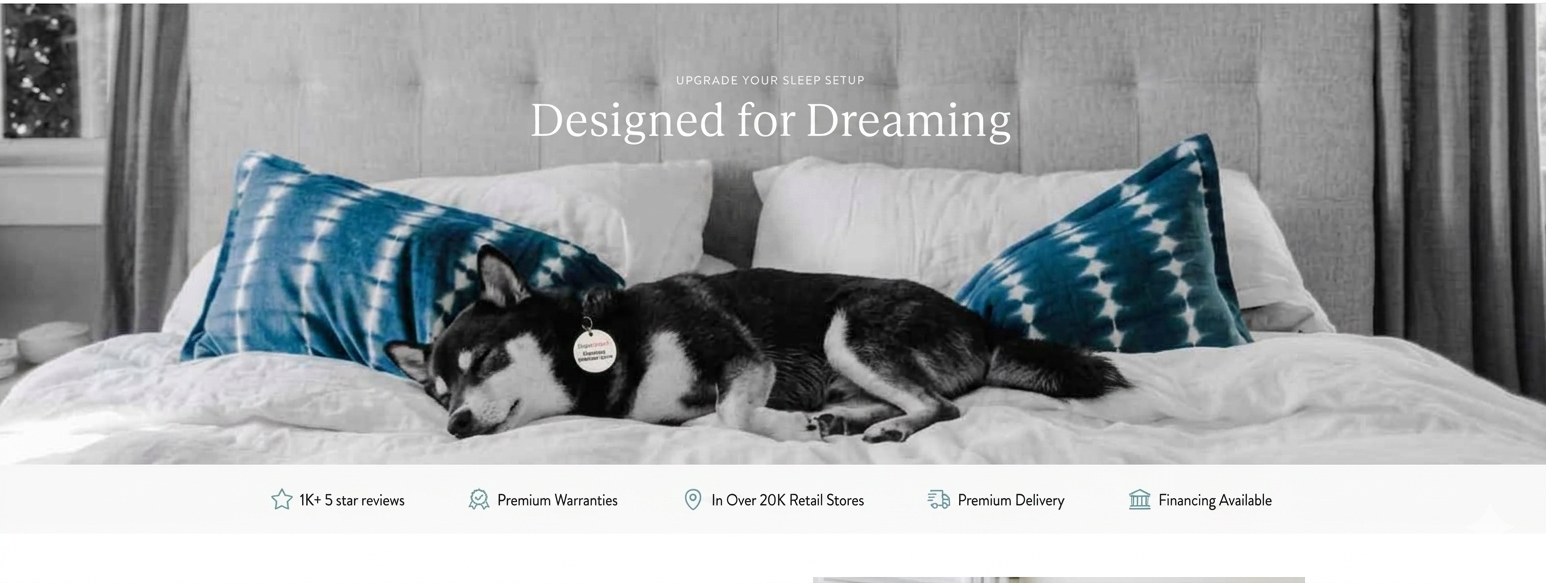
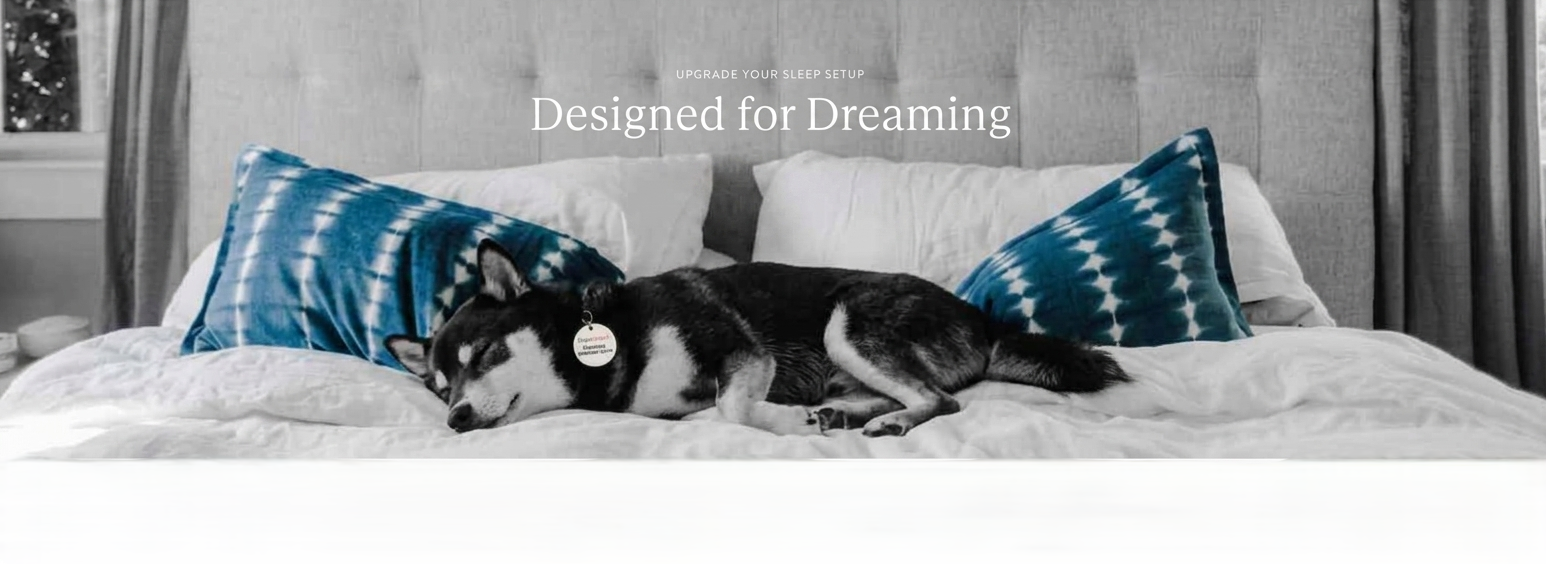
Sync pnpm-lock.yaml with package.json

diff --git a/client/pages/Index.tsx b/client/pages/Index.tsx
@@ -13,7 +13,7 @@ export default function Index() {
         <section className="relative w-full h-[600px] md:h-[700px] overflow-hidden">
           {/* Background Image */}
           <img
-            src="https://cdn.builder.io/api/v1/image/assets%2F05b324902f4143a8953bb0bca24a511c%2F82d2bed4a3c34272b6c38ae28e33314c?format=webp&width=800&height=1200"
+            src="/shibainu.png"
             alt="Designed for Dreaming - Premium Mattress"
             className="absolute inset-0 w-full h-full object-cover"
           />
@@ -24,17 +24,7 @@ export default function Index() {
           {/* Centered Content */}
           <div className="absolute inset-0 flex flex-col items-center justify-center text-center px-4">
             <div className="space-y-6 max-w-2xl">
-              <div className="text-sm md:text-base font-semibold text-white/80 uppercase tracking-widest">
-                Upgrade Your Sleep Setup
-              </div>
-
-              <h1 className="text-5xl md:text-7xl font-bold text-white leading-tight">
-                Designed for Dreaming
-              </h1>
-
-              <p className="text-lg text-white/90 max-w-xl mx-auto">
-                Premium mattresses crafted for your perfect night's sleep
-              </p>
+             
 
               <div className="pt-4">
                 <Link
